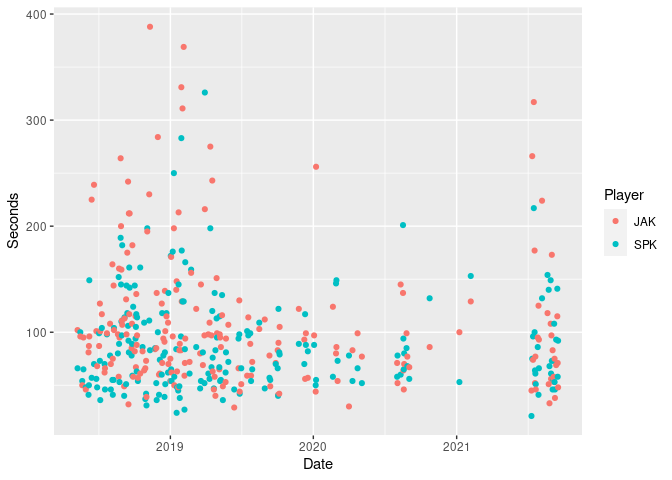
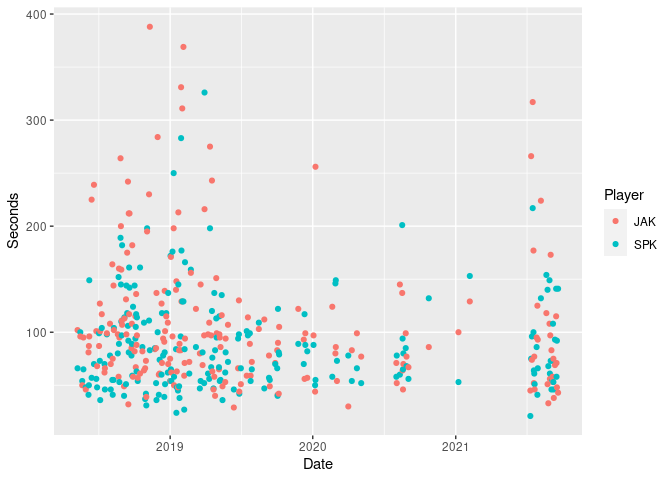
new data added, git report updated

diff --git a/analysis/nyt_mini_crossword.md b/analysis/nyt_mini_crossword.md
@@ -1,7 +1,7 @@
 ---
 title: "New York Time Mini Crossword"
 author: "Stephen Kaluzny"
-date: "19 September, 2021"
+date: "23 September, 2021"
 output:
   html_document:
     keep_md: true
@@ -172,7 +172,7 @@ d %>%
 
 ## Summary Statistics
 
-Current data set has 1140 observations.
+Current data set has 1148 observations.
 
 
 ```r
@@ -187,10 +187,10 @@ d %>% group_by(Player) %>%
 ##   <chr>  <dbl>  <dbl> <dbl> <dbl> <int>
 ## 1 SKK     51       47    21    89     4
 ## 2 AKK     55       55    55    55     1
-## 3 JIK     79.6     62    13   264   214
-## 4 JAK    103.      87    27   454   403
+## 3 JIK     79.8     62    13   264   217
+## 4 JAK    103.      86    27   454   406
 ## 5 BBK    117.     102    42   350    56
-## 6 SPK     NA       NA    NA    NA   462
+## 6 SPK     NA       NA    NA    NA   464
 ```
 
 ## Subset the Data
@@ -205,7 +205,7 @@ d <- d %>%
   filter(Player %in% c("SPK", "JAK", "JIK"))
 ```
 
-Now have 1079 observations.
+Now have 1087 observations.
 
 ## Plots
 
